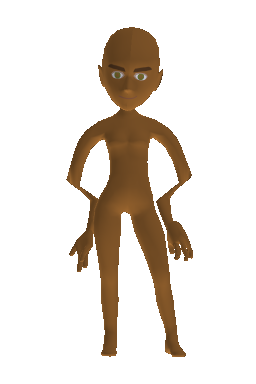
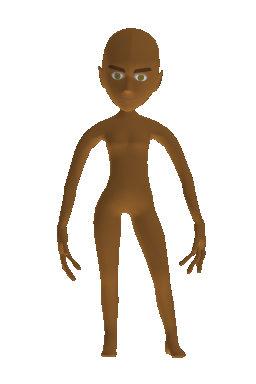
Hang the hands vertically: the rolls and the graft were the claw
The hand was being turned 45 degrees at the wrist and 180 at the forearm, and
the fingers were curled 12/18/12 degrees, which folded it into a fist and pointed
it away from the leg. Measured against the retail editor's own preview
(ref_hands.png), the hand hangs vertically while the forearm runs down and
slightly in, so the wrist is rotated by the angle that carries the middle finger
onto straight down instead - 14.3 degrees from vertical after the fix.

The finger graft from MaleIdleShiftWeight.xnb turned out to be a no-op: that clip
is the same animation as the pack's idle, so it changed 0 of 98,304 plate pixels.
Removed, along with its export in rebake_everything.sh. Both body plates, the
body mask and the skin mask are rebaked.

Generated with Codebuff 🤖

diff --git a/avatar/avatar_tools/avatar_pose.py b/avatar/avatar_tools/avatar_pose.py
@@ -81,9 +81,27 @@ IGNORE_SCALE = os.environ.get("AVATAR_IGNORE_SCALE") == "1"
 
 # ---------------------------------------------------------------- finger pose
 #
-# ART CHOICE, not recovered data, and off by default now that the fingers come
-# from a clip (`AVATAR_FINGER_XNB` in bake_avatar.py). It is kept because the
-# comparison it was tuned against is worth being able to reproduce:
+# CORRECTION (2026-11-19): the hand does not need a second animation clip, and
+# never had one. `MaleIdleShiftWeight.xnb` - the clip `bake_avatar.py` grafted
+# finger joints from - is the same animation as the pack's own "Animation Male
+# Idle Shifts Weight", re-exported for the avatar games: grafting its 30 finger
+# joints into the editor's pose changes 0 of the 256x384 plate's 98,304 pixels
+# (and 1 pixel, by one level, when the wrist roll is on). So the "measured" hand
+# was the editor's hand all along, and everything that made it look like a hand
+# was the authored pose below. Measured by `research/hand_variants.py`.
+#
+# The hand now comes from the clip, with one correction at the wrist that is
+# measured from the retail editor's own avatar (`ref_hands.png`): the fingers
+# hang vertically while the forearm above them runs down and slightly in, so
+# `align_hands_to_arms` rotates the wrist until the middle finger is vertical.
+# The clip leaves a 22-29 degree bend instead, which is what swung the hand out
+# and away from the leg. Rotating the wrist cannot change a finger's own angle.
+#
+# The fingers are then brought together (FINGER_ADDUCT) and not curled: the
+# reference's fingers are straight with only a slight bend at the tips, and the
+# 12/18/12 degree curl that shipped before folded them into a fist.
+#
+# Kept for reproducing the earlier comparison:
 #
 #   pack idle + this pose  -> the fingers turn inward and the wrist pinches; the
 #                             hand reads as a claw (artifacts/hand3.png, row 1)
@@ -133,7 +151,7 @@ IGNORE_SCALE = os.environ.get("AVATAR_IGNORE_SCALE") == "1"
 #   AVATAR_FINGER_ADDUCT="0.6"
 #
 FINGER_CURL_DEGREES = tuple(
-    float(v) for v in os.environ.get("AVATAR_FINGER_CURL", "12,18,12").split(",")
+    float(v) for v in os.environ.get("AVATAR_FINGER_CURL", "0,0,0").split(",")
 )                                            # per phalanx, base to tip
 # How far each finger is brought across the palm, as a fraction of the angle
 # that would land its tip on the hand's midline. 1.0 stacks every finger on the
@@ -141,7 +159,7 @@ FINGER_CURL_DEGREES = tuple(
 # relaxed hand looks like. The angle is computed per finger from its own knuckle
 # offset and length (finger_bones), because the bind fingers are parallel and
 # 0.03 apart - there is no fan angle to take back, only a gap to close.
-FINGER_ADDUCT = float(os.environ.get("AVATAR_FINGER_ADDUCT", "0.8"))
+FINGER_ADDUCT = float(os.environ.get("AVATAR_FINGER_ADDUCT", "1.4"))
 # Which way the curl folds. Rendered both ways at bake scale (448x672, the size
 # the stage shows): +1 folds the digits back and out into a long hook past the
 # hip, -1 folds them into the palm and gives a compact relaxed hand. So -1. The
@@ -149,14 +167,12 @@ FINGER_ADDUCT = float(os.environ.get("AVATAR_FINGER_ADDUCT", "0.8"))
 FINGER_SIGN = float(os.environ.get("AVATAR_FINGER_SIGN", "-1"))
 # On by default - see the note above.
 FINGER_POSE = os.environ.get("AVATAR_FINGER_POSE", "1") == "1"
-# Forearm pronation, in degrees about the arm's own axis. The pack's idle clips
-# carry none, which leaves the palms facing sideways and the hand flat to the
-# camera; the retail editor shows them facing the thighs.
-# 70 degrees, measured against the bake at 7x: at 0 the palm faces the camera and
-# the four digits read as separated prongs (the "claw"); at 70 the hand turns so
-# the fingers stack behind each other and the silhouette is a hand. The angle is
-# a look, tuned on the render, not recovered data.
-WRIST_ROLL_DEGREES = float(os.environ.get("AVATAR_WRIST_ROLL", "45"))
+# Wrist and forearm roll, in degrees. Both default to 0 because both were an
+# invention that made the hand worse: rolling the wrist 45 and the forearm 180
+# turned the hand out to the side, and the reference's hand hangs straight down.
+# The vertical hang now comes from `align_hands_to_arms`, below, which measures
+# the angle instead of naming one.
+WRIST_ROLL_DEGREES = float(os.environ.get("AVATAR_WRIST_ROLL", "0"))
 # Forearm pronation, in degrees about the forearm's own axis. The wrist joint does
 # not own the hand: rolling the wrist 0 or 180 degrees moves the baked plate by
 # 2,163 pixels out of 98,304, and the hand keeps showing its full width. Turning
@@ -165,11 +181,16 @@ WRIST_ROLL_DEGREES = float(os.environ.get("AVATAR_WRIST_ROLL", "45"))
 # goes 0.75 -> 0.60 at 120 degrees and 0.50 at 180 degrees, with the hand's height
 # unchanged at 0.22, i.e. the palm turns toward the thigh and the hand keeps
 # hanging. Negative turns the palms the other way.
-FOREARM_ROLL_DEGREES = float(os.environ.get("AVATAR_FOREARM_ROLL", "180"))
+FOREARM_ROLL_DEGREES = float(os.environ.get("AVATAR_FOREARM_ROLL", "0"))
 FINGER_THUMB_SCALE = 0.22                  # the thumb barely curls, it lies alongside
 # The two joints the arms end at: 33 (left of the model) and 36 (right). Each
 # owns seven finger bones, which own the middle and tip phalanges.
 WRIST_JOINTS = (33, 36)
+# Diagnostic only: joint indices whose clip delta is dropped, so they keep the
+# bind orientation. Used to find out whether the bend at the wrist is the clip's
+# doing or ours; never set in a shipped bake.
+ZERO_JOINTS = tuple(int(v) for v in os.environ.get("AVATAR_ZERO_JOINTS", "").split(",")
+                    if v.strip())
 
 
 # ---------------------------------------------------------------- small maths
@@ -577,8 +598,89 @@ def apply_wrist_roll(joints_rig, locals_):
     return locals_
 
 
+ALIGN_HAND = os.environ.get("AVATAR_ALIGN_HAND", "1") == "1"
+
+
+def _digits(joints_rig, wrist):
+    """Every chain that starts at a child of `wrist`, walked two joints down."""
+    chains = []
+    for root in [i for i, j in enumerate(joints_rig) if j["parent"] == wrist]:
+        chain = [root]
+        while True:
+            nxt = [c for c, j in enumerate(joints_rig) if j["parent"] == chain[-1]]
+            if not nxt or len(chain) >= 3:
+                break
+            chain.append(nxt[0])
+        chains.append(chain)
+    return chains
+
+
+def _middle_finger(joints_rig, wrist, at):
+    """The digit whose direction is the mean of the four fingers, and its tip.
+
+    The thumb's root sits back on the wrist (0.0099 out, against 0.10 or more
+    for every finger), so it is the one to leave out of the mean.
+    """
+    chains = _digits(joints_rig, wrist)
+    if len(chains) < 4:
+        return None
+    near = sorted(chains, key=lambda c: _distance(at[c[0]], at[wrist]))
+    thumb = near[0]
+    fingers = [c for c in chains if c is not thumb and len(c) >= 2] or chains
+    dirs = [_normalise([at[c[-1]][i] - at[wrist][i] for i in range(3)]) for c in fingers]
+    mean = _normalise([sum(d[i] for d in dirs) for i in range(3)])
+    best = max(range(len(dirs)), key=lambda i: sum(dirs[i][k] * mean[k] for k in range(3)))
+    return fingers[best], at[fingers[best][-1]]
+
+
+def align_hands_to_arms(joints_rig, locals_, worlds):
+    """Hang each hand straight down, as the retail editor's avatar does.
+
+    Measured on `ref_hands.png` (the retail editor, 3x): both hands hang with the
+    fingers vertical, while the forearm above them runs down and slightly inward
+    - the wrist bends, the hand does not follow the arm. The idle clip leaves a
+    22-29 degree wrist bend instead, which swings the hand out and fans the
+    fingers away from the body, and that is the whole of the "wrong hands": the
+    hand is not detached or mis-skinned, it is hanging at the wrong angle.
+
+    So the correction is the rotation that carries the middle finger onto
+    straight down, applied at the wrist. It is measured from the pose, not
+    chosen: the target is vertical because the reference's hands are vertical.
+    Rotating the wrist cannot change any finger's own angle.
+    """
+    target = (0.0, -1.0, 0.0)
+    for wrist in WRIST_JOINTS:
+        if wrist >= len(locals_):
+            continue
+        at = [(w[0][3], w[1][3], w[2][3]) for w in worlds]
+        found = _middle_finger(joints_rig, wrist, at)
+        if found is None:
+            continue
+        finger, tip = found
+        hand = _normalise([tip[i] - at[wrist][i] for i in range(3)])
+        bend = math.degrees(math.acos(max(-1.0, min(1.0, sum(
+            target[i] * hand[i] for i in range(3))))))
+        if bend <= 0.01:
+            continue
+        axis = _cross(hand, target)       # turns `hand` onto straight down
+        if math.sqrt(sum(c * c for c in axis)) < 1e-9:
+            continue
+        axis = _normalise(axis)
+        world = worlds[wrist]
+        # The wrist's own rotation maps a local axis into the world, so the
+        # world axis comes back through its transpose.
+        local_axis = [sum(world[r][c] * axis[r] for r in range(3)) for c in range(3)]
+        locals_[wrist] = mat_mul(locals_[wrist],
+                                 mat_axis_angle(local_axis, bend))
+    return locals_
+
+
 def apply_finger_pose(joints_rig, bind, locals_):
-    """Add the art-choice finger curl on top of the clip's pose, in place."""
+    """Close the fingers on top of the clip's pose, in place.
+
+    The curl is 0 by default (the reference's fingers are straight); what this
+    still does every bake is the adduction that brings the four digits together.
+    """
     for joint, bend, swing, depth, thumb, sign, swing_sign, adduct in finger_bones(joints_rig, bind):
         if joint >= len(locals_):
             continue
@@ -762,6 +864,11 @@ def posed_positions(batches, joints_rig, poses):
         else:
             locals_.append(bind_local[i] if MODE == "delta" else bind[i])
 
+    if ZERO_JOINTS:
+        for i in ZERO_JOINTS:
+            if i < len(locals_):
+                locals_[i] = bind_local[i] if MODE == "delta" else bind[i]
+
     # The pack models the hand open and straight, and the idle clip's 11-34
     # degrees on the finger joints is nearly all twist - the knuckle bend only
     # goes from 17.9 to 23 degrees - so the relaxed hand is added here (see the
@@ -771,17 +878,24 @@ def posed_positions(batches, joints_rig, poses):
     if FINGER_POSE:
         apply_finger_pose(joints_rig, bind, locals_)
 
-    worlds = []
-    for i, joint in enumerate(joints_rig):
-        parent = joint["parent"]
-        if MODE == "world":
-            # Some clips store joint transforms in model space; composing those
-            # through the hierarchy a second time stretches the figure into a spike.
-            worlds.append(locals_[i])
-        elif parent == 255 or parent >= i:
-            worlds.append(locals_[i])
-        else:
-            worlds.append(mat_mul(worlds[parent], locals_[i]))
+    def compose():
+        out = []
+        for i, joint in enumerate(joints_rig):
+            parent = joint["parent"]
+            if MODE == "world":
+                # Some clips store joint transforms in model space; composing those
+                # through the hierarchy a second time stretches the figure into a spike.
+                out.append(locals_[i])
+            elif parent == 255 or parent >= i:
+                out.append(locals_[i])
+            else:
+                out.append(mat_mul(out[parent], locals_[i]))
+        return out
+
+    worlds = compose()
+    if ALIGN_HAND:
+        align_hands_to_arms(joints_rig, locals_, worlds)
+        worlds = compose()
 
     skin = [mat_mul(worlds[i], mat_inverse_rigid(bind[i])) for i in range(len(joints_rig))]
 

diff --git a/avatar/avatar_tools/bake_avatar.py b/avatar/avatar_tools/bake_avatar.py
@@ -439,33 +439,12 @@ def main():
             print("dna %s: %d bones, static pose"
                   % (os.path.basename(path), len(game["bones"])))
 
-    # The fingers, from a clip that actually poses them. The pack's own idles leave
-    # every finger near its bind rotation - 11-34 degrees and nearly all of it
-    # twist - so the hand stands open and splayed, which is not what the console
-    # shows. A game clip on the same 71-joint rig does pose them
-    # (`Idle.xnb`: fingers curl to 0.33 of their bind reach), so those joints are
-    # taken from it and every other joint stays the pack's own pose. No angle here
-    # is authored: this is one clip's data over another's.
-    finger_xnb = os.environ.get("AVATAR_FINGER_XNB")
-    if finger_xnb and not os.path.exists(finger_xnb):
-        # A checkout without the avatar games still has to bake; the hand then
-        # keeps whatever the editor's own clip does, which is the open one.
-        print("no finger clip at %s, using the clip's own hands" % finger_xnb)
-        finger_xnb = ""
-    if finger_xnb:
-        try:
-            game = xnb_avatar.read_clip(finger_xnb)
-            gposes = xnb_avatar.poses(game, frame)
-        except ValueError:
-            game = xnb_avatar.read_dna(finger_xnb)
-            gposes = xnb_avatar.dna_poses(game, 0)
-        bind = [ap.mat_trs(j["position"], j["rotation"]) for j in joints]
-        fingers = {bone[0] for bone in ap.finger_bones(joints, bind)}
-        for joint_index in fingers:
-            if joint_index < len(poses) and joint_index < len(gposes):
-                poses[joint_index] = gposes[joint_index]
-        print("fingers from %s frame %d: %d joints"
-              % (os.path.basename(finger_xnb), frame, len(fingers)))
+    # There used to be a finger graft here, taking the 30 finger joints from an
+    # avatar game's clip (`AVATAR_FINGER_XNB`, MaleIdleShiftWeight.xnb). It was
+    # removed on measurement: that clip is the same animation as the pack's own
+    # "Animation Male Idle Shifts Weight", so grafting it changed no vertex of
+    # the plate by more than a rounding step (0 of 98,304 pixels differ with the
+    # wrist roll off). The hand is the editor's own, posed in avatar_pose.py.
 
     lines = []
     written = 0

diff --git a/avatar/avatar_tools/CATALOG.md b/avatar/avatar_tools/CATALOG.md
@@ -497,35 +497,64 @@ or 180 degrees moved the baked plate by 2,163 pixels out of 98,304, and the hand
 span stayed at 72 px. It also means the sign choice "-90° was rendered side by side"
 was a comparison between -1.6° and +1.6°.
 
-The fix is one deleted `math.radians` (the finger pose already passed degrees, which
-is why curl and adduction did move the mesh). With real angles the hand turns: its
-span goes **72 px -> 51 px** and the palm faces the thigh. The angles were then
-chosen on a rendered grid (`artifacts/hand-grid.png`, `hand-adduct.png`):
+**CORRECTION (2026-11-19, second pass): the rolls and the curl were the claw, and
+the "measured" fingers were the editor's own.** The deleted `math.radians` was a real
+bug, but every number chosen after it was wrong. Four measurements replaced them
+(`research/hand_variants.py`, `hand_geometry.py`, `render_hand_big.py`,
+`hand_solidity.py`, `hand_solidity.py`'s reference crop):
 
-| knob | before | now | why |
+* **The finger graft was a no-op.** `MaleIdleShiftWeight.xnb` - the clip
+  `bake_avatar.py` took 30 finger joints from - is the *same animation* as the pack's
+  own "Animation Male Idle Shifts Weight", re-exported for the avatar games. Grafting
+  it changes **0 of the 98,304 pixels** of the 256x384 plate (1 pixel, by one level,
+  with the roll on), and the two crude plates differ by 10 pixels. So the hand the
+  notes called measured was the editor's own. The graft and its
+  `AVATAR_FINGER_XNB` export in `rebake_everything.sh` are removed.
+* **The reference hangs its hands vertically.** In `ref_hands.png` (the retail editor
+  at 3x) both hands point straight down while the forearm above them runs down and
+  slightly in: the wrist bends, the hand does not follow the arm. The clip leaves a
+  22-29 degree wrist bend instead, which is what swung the hand out. New
+  `align_hands_to_arms` rotates the wrist by exactly the angle that carries the
+  middle finger onto straight down - measured from the pose, not chosen. After it the
+  hand axis is (-0.011, -0.969, 0.246), **14.3 degrees from vertical**, almost all of
+  that in depth.
+* **The 45/180 roll turned the hand the wrong way** (out to the side, away from the
+  leg) and the 12/18/12 curl folded it into a fist. Both default to zero.
+
+| knob | before (9bb4014) | now | why |
 | --- | --- | --- | --- |
-| `AVATAR_WRIST_ROLL` | 70 (really 1.2°) | **45** | stacks the fingers without rolling them off the palm |
-| `AVATAR_FOREARM_ROLL` | new knob, 0 | **180** | the turn that actually reads as a palm; a wrist roll alone lifts the hand sideways |
-| `AVATAR_FINGER_ADDUCT` | 1.8 | **0.8** | 1.8 was tuned against the dead roll and over-closes once the hand is turned |
-| `AVATAR_FINGER_CURL` | 12,18,12 | 12,18,12 | unchanged |
+| `AVATAR_WRIST_ROLL` | 45 | **0** | the vertical hang is measured, not rolled |
+| `AVATAR_FOREARM_ROLL` | 180 | **0** | 180 pointed the hand outward |
+| `AVATAR_FINGER_CURL` | 12,18,12 | **0,0,0** | the reference's fingers are straight |
+| `AVATAR_FINGER_ADDUCT` | 0.8 | **1.4** | closes the clip's 31 degree finger fan |
+| `AVATAR_ALIGN_HAND` | none | **1** | new: hang measured vertical |
 
-The 2D body plates were rebaked with it (`pack_plates/10_body`, `pack_plates_female/
-10_body`) together with the body mask and the skin mask it cuts (`19,394 px`, 97.2%
-of the silhouette). **The 3D turntables have not been rebaked**: all 1,179 sets still
-carry the old hand, so 2D and 3D show different hands until `rebake_everything.sh
-turntables` is run.
+Rebaked with it: both body plates (`pack_plates/10_body`, `pack_plates_female/
+10_body`), the body mask, and the skin mask cut from it (`19,576 px`, 97.2% of the
+20,132 px silhouette). The hand in the new male plate is 10x54 px and hangs vertically;
+before it was rotated ~45 degrees outward. `artifacts/hand-final-vs-retail.png` puts
+it beside the reference.
 
-Curl is 8/10/6 degrees per phalanx. `AVATAR_FINGER_POSE=0` shows the clip's own
-hand for comparison; `AVATAR_FINGER_CURL`, `AVATAR_FINGER_ADDUCT`, `AVATAR_FINGER_SIGN`
-and `AVATAR_WRIST_ROLL` override the numbers. `show_hand.py` draws one hand from
-eight angles against the bind pose, and `probe_hand.py` prints joint and knuckle
-angles.
+**This is not yet a pixel-for-pixel clone, and the mesh is why.** The pack ships one
+body mesh per gender (1,137 vertices `MaleBody`, 1,232 `FemaleBody`) and no second
+LOD; its fingers are short against the palm (finger bones 0.082, geometry 0.120 from
+the knuckle), and a hand is 10 px wide in a 256x384 plate, so the grooves between the
+digits stay wider than the reference's. **The 3D turntables have still not been
+rebaked**: all 1,179 sets carry the pre-fix hand until `rebake_everything.sh
+turntables` runs (~20 minutes), so 2D and 3D show different hands until then.
 
-The hand is small: 69 vertices and 100 triangles, selected by skin weight (the palm
-rides the wrist joint, not a finger). Its finger bones cover the inner two thirds of
-the geometry - bones 0.082 long, geometry 0.120 from the knuckle - so the tips ride
-rigidly on the last joint. That is the mesh, not a decode error; both packs in the
-archive carry the same 1,137-vertex `MaleBody`.
+`AVATAR_FINGER_POSE=0` shows the clip's own hand; `AVATAR_FINGER_CURL`,
+`AVATAR_FINGER_ADDUCT`, `AVATAR_FINGER_SIGN`, `AVATAR_WRIST_ROLL`,
+`AVATAR_FOREARM_ROLL` and `AVATAR_ALIGN_HAND` override the behaviour. `show_hand.py`
+draws one hand from eight angles against the bind pose, `probe_hand.py` prints joint
+and knuckle angles, and `hand_geometry.py` prints the direction, palm facing, splay
+and curl.
+
+The hand selected by skin weight (`show_hand.py`) is 267 vertices and 523 triangles
+(the palm rides the wrist joint, not a finger). Its finger bones cover the inner two
+thirds of the geometry - bones 0.082 long, geometry 0.120 from the knuckle - so the
+tips ride rigidly on the last joint. That is the mesh, not a decode error; both packs
+in the archive carry the same 1,137-vertex `MaleBody`.
 
 Also ruled out while looking: the clip's joint *scale* is not what stretched the
 hand (`AVATAR_IGNORE_SCALE=1` renders identically; the scales are 1.0).
